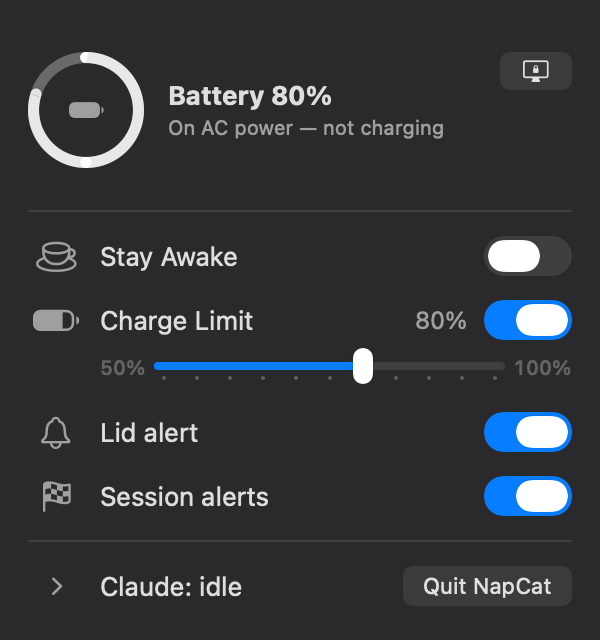
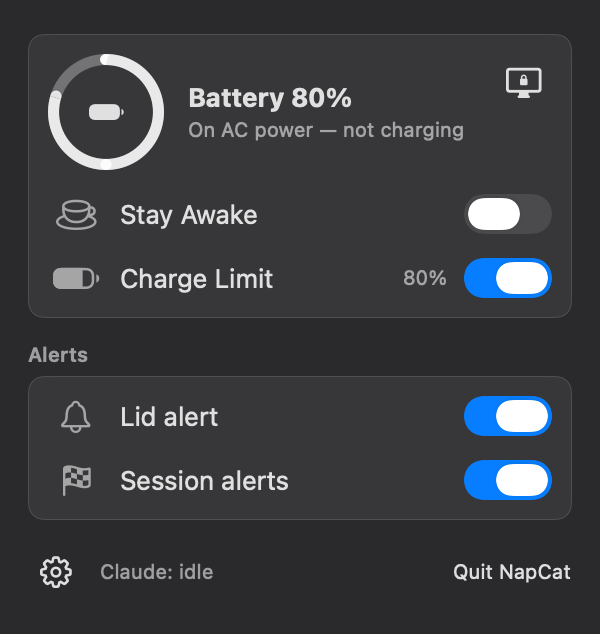
docs(site): refresh panel screenshots for the grouped-cards panel
The site's menu-panel captures predated the grouped-cards panel (#81) and
the Settings window: they still showed the Details disclosure, the panel
slider and a bordered Quit. Re-captured the real MenuPanelView offscreen
at 2x with the recipe in the renderer header (simulated state only:
80 % on AC, charge control ready so the Charge Limit row shows, limit on
at 80 %, Stay Awake off, lid and session alerts armed with a placeholder
topic, Claude idle), then re-ran scripts/render_site_assets.swift, which
also re-derives og-image.png from the dark capture.

The panel is now 600x634 px (was 600x640), so the page's width/height
attributes move to 300x317. Captures and outputs are byte-identical
across runs; every other asset is unchanged.

diff --git a/scripts/render_site_assets.swift b/scripts/render_site_assets.swift
@@ -12,7 +12,7 @@
 //                            idle0@2x…idle16@2x) side by side, recoloured
 //                            white for a dark menu bar: the sprite sheet the
 //                            page steps through with CSS. Gray + alpha.
-//   menu-panel-light.png     600×640 the menu panel at 2x on the light and
+//   menu-panel-light.png     600×634 the menu panel at 2x on the light and
 //   menu-panel-dark.png              dark menu background (PANEL below). RGB.
 //   og-image.png             1200×630 social card: the menu bar with the cat,
 //                            the dark panel hanging from it, and the app icon.
@@ -30,19 +30,25 @@
 // back with ImageIO and must reproduce the exact source pixels.
 //
 // PANEL: docs/menu-panel-*.png are captures of the real menu panel
-// (MenuPanelView, 300 pt wide, Details collapsed), rendered OFFSCREEN at 2x —
+// (MenuPanelView — the grouped cards — 300 pt wide), rendered OFFSCREEN at 2x —
 // an NSHostingView in a borderless window that is never ordered front, drawn
 // with CALayer.render(in:) into an sRGB bitmap, once with the aqua and once
 // with the darkAqua appearance. They are never screenshots of a running app.
 // The state is SIMULATED end to end and reads nothing from the machine:
-// DebugPowerSimulator at 80 % on AC power; the charge limit on at 80 % (so
-// charging is paused at the limit); Stay Awake off (a simulated `pmset -g`
-// read); the unit tests' hermetic Claude detection stubs (hook installed and
-// current, no task running); the lid alert and session alerts on, with a
-// placeholder topic in a throwaway defaults suite (the collapsed panel never
-// shows a topic). The default blue accent is used, and the window reports
-// itself key and active in-process so the controls draw in the active style
-// of an open menu. A capture must be 600 px wide, 8-bit RGBA, sRGB, with a
+// DebugPowerSimulator at 80 % on AC power with charge control ready (not a
+// firmware-gated Mac, so the Charge Limit row shows); the charge limit on at
+// 80 % (so charging is paused at the limit); Stay Awake off (a simulated
+// `pmset -g` read); the unit tests' hermetic Claude detection stubs (hook
+// installed and current, no task running); the lid alert and session alerts
+// on, with a placeholder topic in a throwaway defaults suite (the panel never
+// shows a topic), behind the composite sender over recording fakes with
+// phone alerts on in an entitled build (nothing is sent, and a nominal phone
+// line does not render in the panel). The default blue accent is used, and
+// the window reports itself key and active in-process so the controls draw
+// in the active style of an open menu. The capture harness is a throwaway
+// Swift Testing test run in a scratch copy of the package — that copy makes
+// SleepStateController.applyObservedRead internal for the simulated read —
+// and is not committed. A capture must be 600 px wide, 8-bit RGBA, sRGB, with a
 // transparent background; this script flattens it onto the menu background
 // below, pads it like the menu's own content inset, and re-encodes it, which
 // drops every metadata chunk of the capture.

diff --git a/docs/index.html b/docs/index.html
@@ -59,8 +59,8 @@
             </span>
           </div>
           <picture>
-            <source srcset="menu-panel-dark.png" media="(prefers-color-scheme: dark)" width="300" height="320">
-            <img class="panel" src="menu-panel-light.png" width="300" height="320" alt="The NapCat panel: Battery 80%, on AC power, not charging. Stay Awake is off. Charge Limit is on at 80%. Lid alert and Session alerts are on. Claude is idle.">
+            <source srcset="menu-panel-dark.png" media="(prefers-color-scheme: dark)" width="300" height="317">
+            <img class="panel" src="menu-panel-light.png" width="300" height="317" alt="The NapCat panel: Battery 80%, on AC power, not charging. Stay Awake is off. Charge Limit is on at 80%. Lid alert and Session alerts are on. Claude is idle.">
           </picture>
         </div>
         <figcaption>Click the cat in the menu bar to open the panel.</figcaption>
